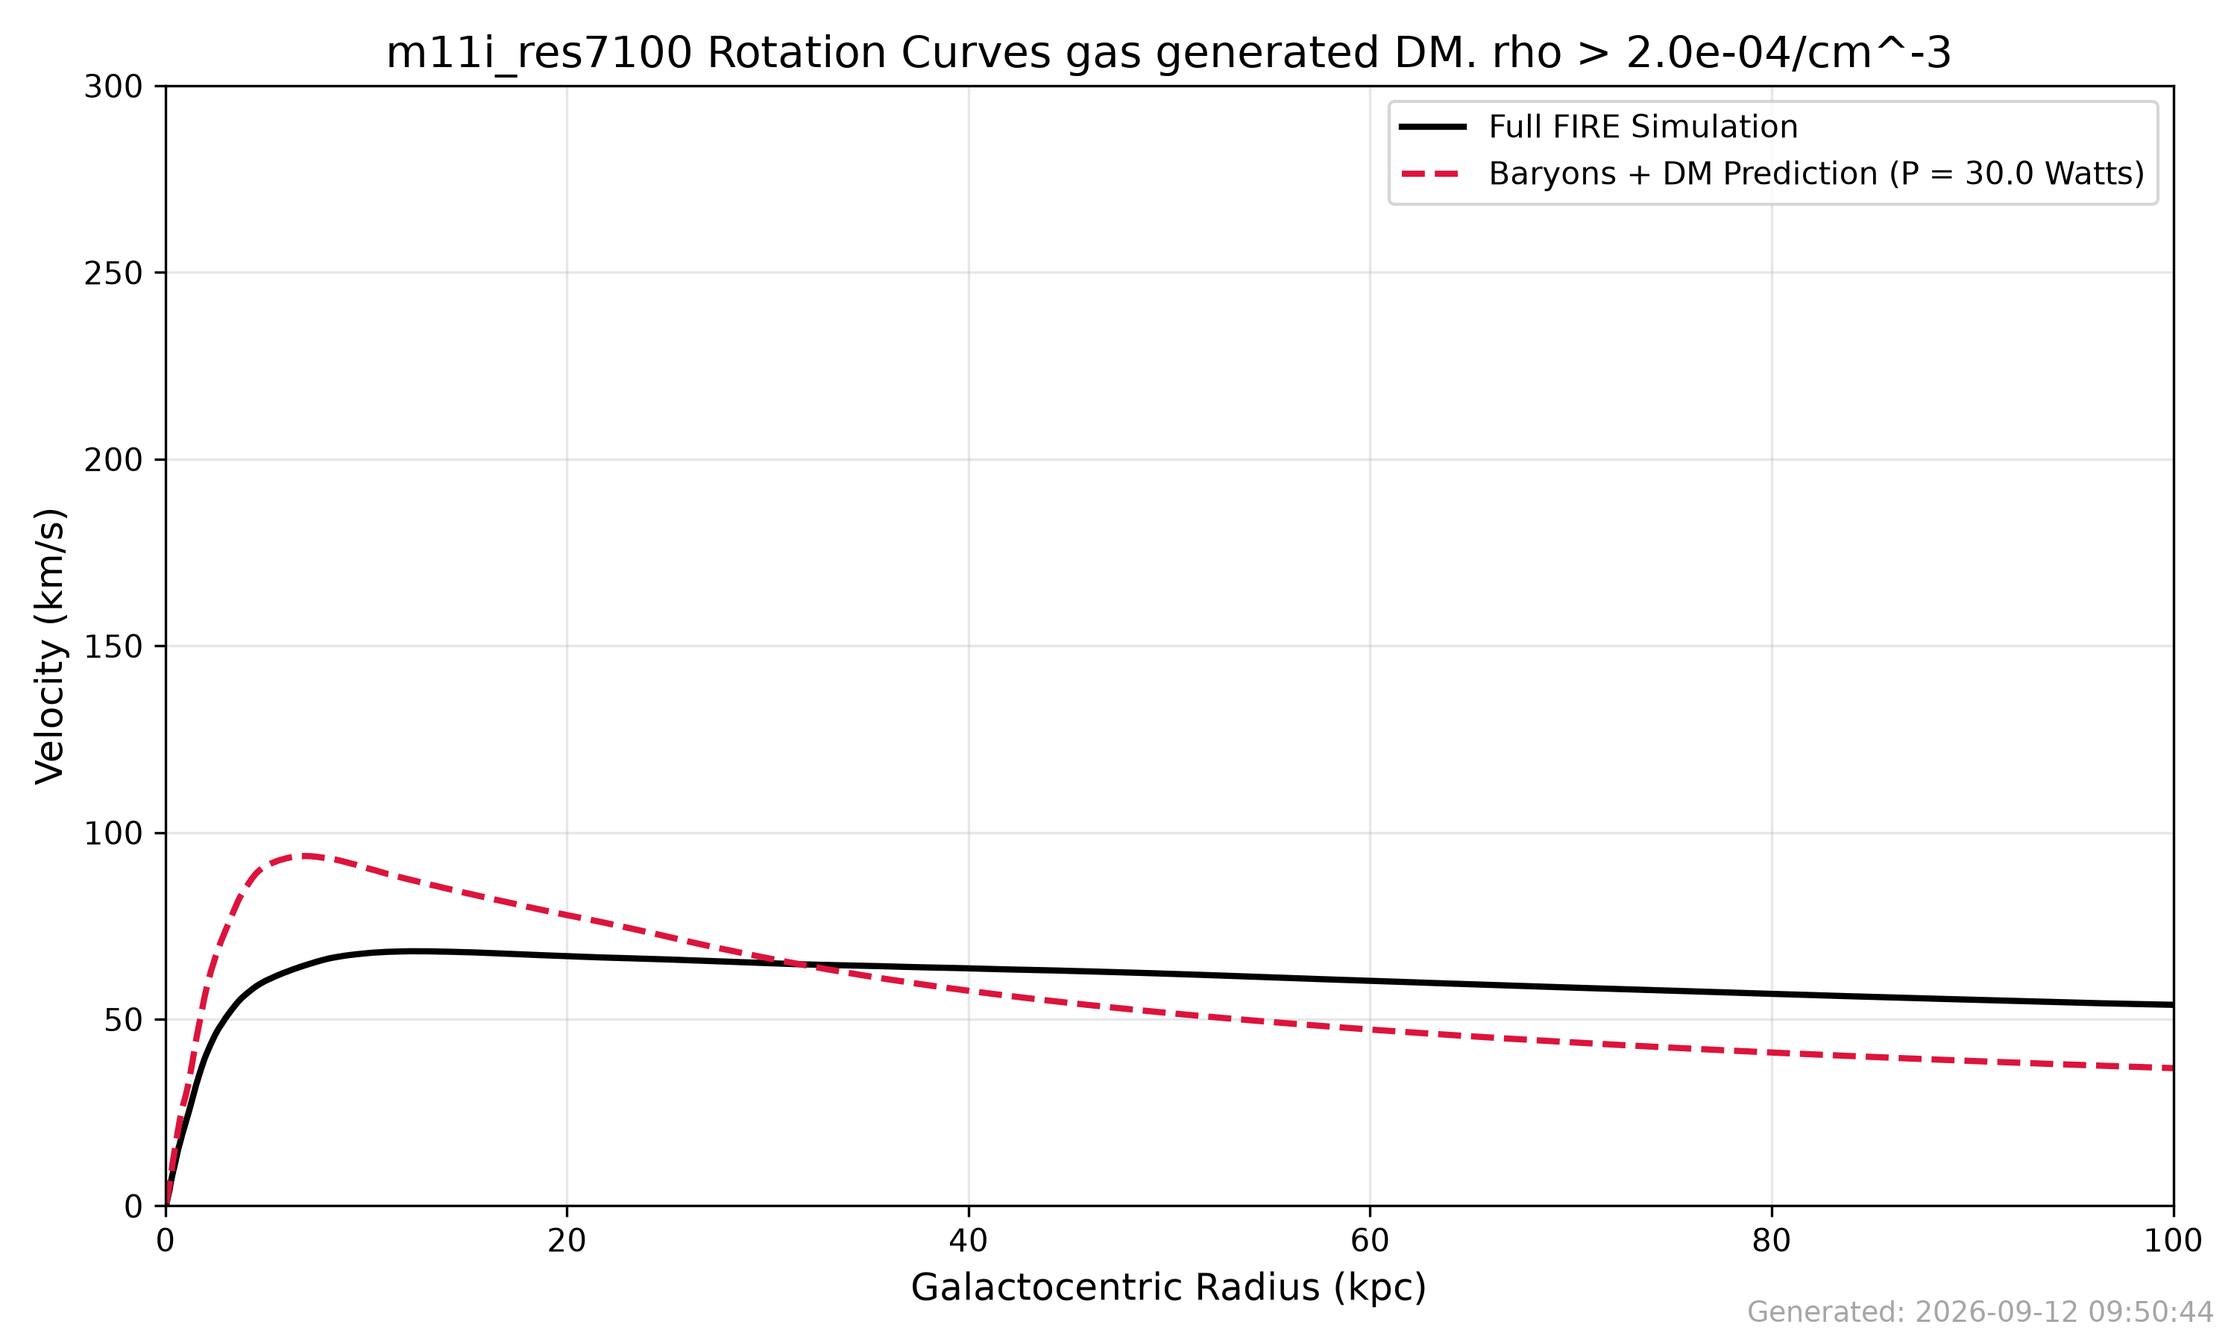
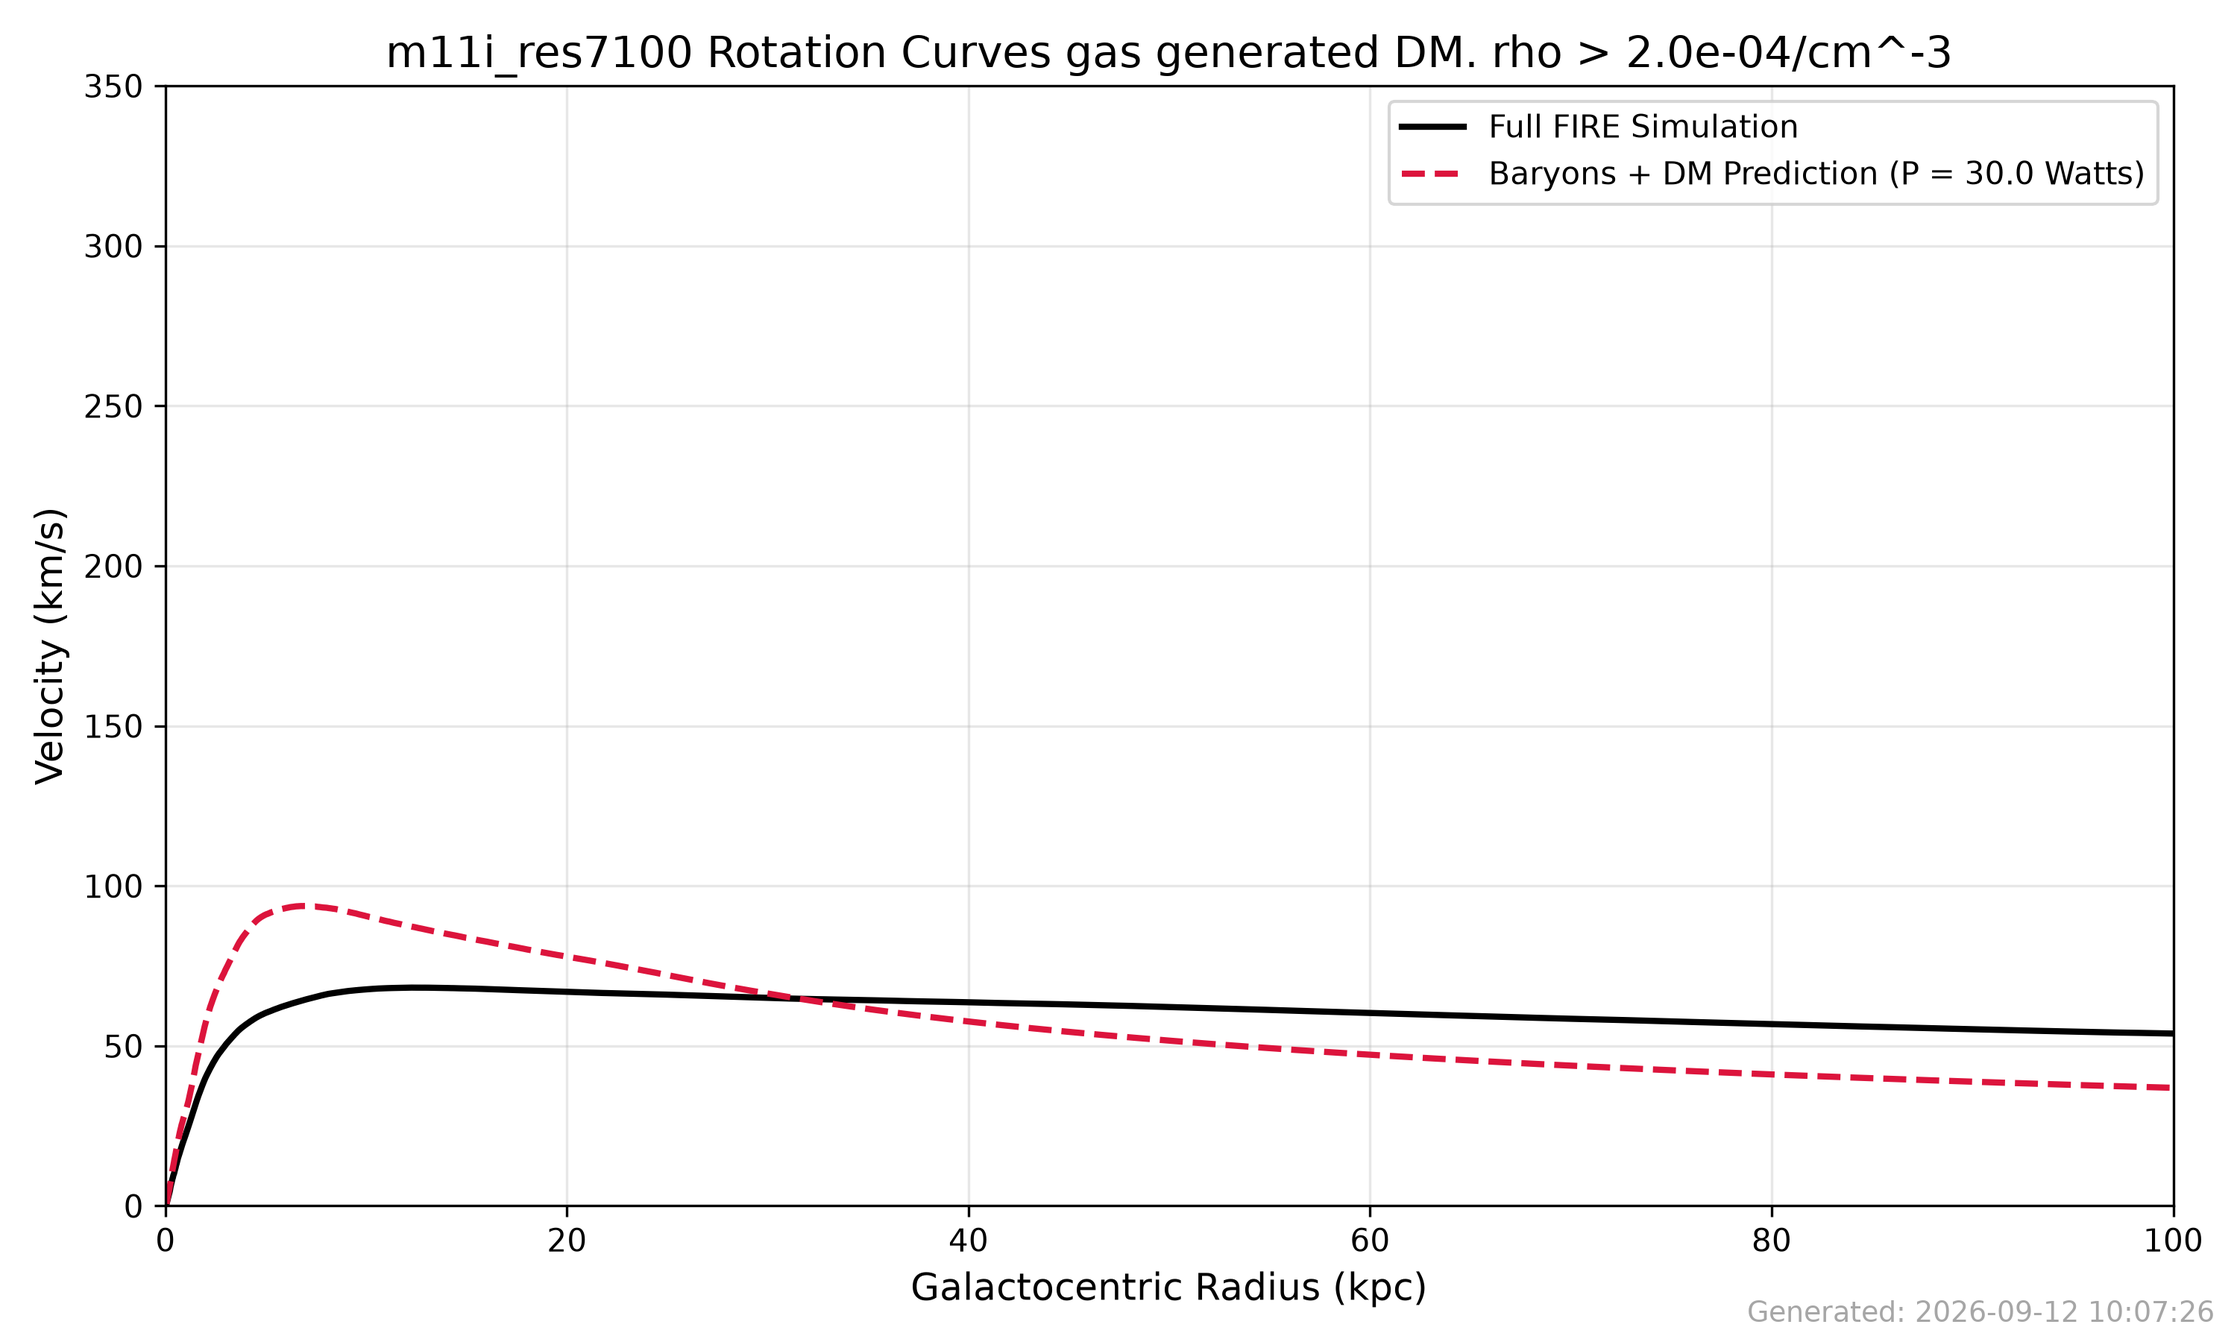
turned entire thing into one script that runs all the galaxies, makes image files

diff --git a/fire2/darkmatter.py b/fire2/darkmatter.py
@@ -5,16 +5,10 @@ import gizmo_analysis as gizmo
 from datetime import datetime
 import os
 
-
 # ==========================================
 # 1. CONFIGURATION & CONSTANTS
 # ==========================================
-SIM_FOLDER = "m11i_res7100" #m12i_res7100" # or m10q_res30 m11i_res7100 , m11h_res7100, m11e_res7100, m12m_res7100, m09_res30, m12r_res7100, m12c_res7100, m11b_res2100, m11q_res880, m12w_res7100
-  
- 
 SNAPSHOT_NUM = 600
-DENSITY_THRESHOLD = 0.0002  # cm^-3 (filtering for dense gas)
-PLOT_X_LIMIT = 100.0      # kpc
 USE_STARS = False         # Toggle stellar contribution to predicted DM
 
 G = 4.3009e-6             # Gravitational constant: kpc * (km/s)^2 / M_sun
@@ -22,8 +16,6 @@ c = 299792458.0           # Speed of light: m/s
 MSUN_TO_KG = 1.989e30     # Solar masses to kilograms
 MSUN_KPC3_TO_KG_M3 = 6.77e-29 # Mass density conversion
 alpha_std = 2.0
-
-print(f"{SIM_FOLDER} Rotation Curves gas generated DM. rho > {DENSITY_THRESHOLD:.1e}/cm^-3")
 
 def get_component_velocity(radii, masses):
     """Sorts particles by radius and calculates circular velocity."""
@@ -35,171 +27,192 @@ def get_component_velocity(radii, masses):
     v_circ = np.sqrt((G * enclosed_mass) / (r_sorted + 1e-6)) # Avoid div by zero
     return r_sorted, v_circ
 
-# ==========================================
-# 2. LOAD DATA & EXTRACT PROPERTIES
-# ==========================================
-print("Loading snapshot data...")
-part = gizmo.io.Read.read_snapshots(
-    ['star', 'gas', 'dark'], 
-    'index', 
-    SNAPSHOT_NUM, 
-    assign_hosts=True, 
-    simulation_directory=f"./fire2/galaxies/{SIM_FOLDER}"
-) 
- 
-r_stars = part['star'].prop('host.distance.spherical')[:, 0]
-r_gas_all = part['gas'].prop('host.distance.spherical')[:, 0]
-r_dm_all = part['dark'].prop('host.distance.spherical')[:, 0]
-pos_stars_all = part['star'].prop('host.distance') 
-mass_stars = part['star']['mass']
-mass_gas_all = part['gas']['mass']
-mass_dm_all = part['dark']['mass']
 
-# ==========================================
-# 3. FILTER GAS & TRUE DARK MATTER
-# ==========================================
-print("Filtering gas and isolating 100 kpc volume...")
-gas_density_cm3 = part['gas'].prop('number.density') 
-
-# Gas filter mask
-low_density_mask = (gas_density_cm3 > DENSITY_THRESHOLD)
-r_gas_f = r_gas_all[low_density_mask]
-mass_gas_f = mass_gas_all[low_density_mask]
-n_cm3 = gas_density_cm3[low_density_mask]
-gas_rho_msun_kpc3 = part['gas'].prop('density')[low_density_mask]
-
-# Star filter mask
-r_stars_f = r_stars
-mass_stars_f = mass_stars
-pos_stars_f = pos_stars_all
-
-# True DM filter mask
-r_dm_true = r_dm_all
-mass_dm_true = mass_dm_all
-target_dm_mass_kg = np.sum(mass_dm_true, dtype=np.float64) * MSUN_TO_KG
-
-# ==========================================
-# 4. RUN YOUR DARK MATTER MODEL (GAS + STARS)
-# ==========================================
-print("Running DM model for Gas...")
-n_m3_gas = n_cm3.astype(np.float64) * 1e6
-gas_mass_kg = mass_gas_f.astype(np.float64) * MSUN_TO_KG
-gas_rho_kg_m3 = gas_rho_msun_kpc3.astype(np.float64) * MSUN_KPC3_TO_KG_M3
-
-V_i_gas = gas_mass_kg / gas_rho_kg_m3
-d_avg_gas = np.cbrt(1.0 / n_m3_gas)
-sum_factor_star = 0.0
-
-if USE_STARS:
-    print("Calculating local density for Stars using KD-Tree...")
-    tree = cKDTree(pos_stars_f)
-    distances, _ = tree.query(pos_stars_f, k=17, workers=-1) 
-    r_16 = distances[:, 16].astype(np.float64) 
-
-    V_sphere_kpc3 = (4.0 / 3.0) * np.pi * (r_16**3)
-    star_rho_kg_m3 = ((16.0 * mass_stars_f.mean() * MSUN_TO_KG) / V_sphere_kpc3) * MSUN_KPC3_TO_KG_M3
-    V_i_star = (mass_stars_f.astype(np.float64) * MSUN_TO_KG) / star_rho_kg_m3
-    mass_baryon_kg = 1.67e-27 
-    n_m3_star = star_rho_kg_m3 / mass_baryon_kg
-    d_avg_star = np.cbrt(1.0 / n_m3_star)
-    sum_factor_star = np.sum(V_i_star / (c**3 * d_avg_star**alpha_std)) if USE_STARS else 0.0
-
-
-print("Calculating global Power P...")
-
-sum_factor_gas = np.sum(V_i_gas / (c**3 * d_avg_gas**alpha_std))
-sum_factor_total = sum_factor_gas + sum_factor_star
-
-P = target_dm_mass_kg / sum_factor_total
-print(f"Calculated Shared Power P: {P:.2e} Watts")
-P = 30.0
-print(f"Using forced Shared Power P: {P:.2e} Watts")
-
-dm_mass_msun_pred_gas = (P * (V_i_gas / (c**3 * d_avg_gas**alpha_std))) / MSUN_TO_KG
-if USE_STARS:
-    dm_mass_msun_pred_star = (P * (V_i_star / (c**3 * d_avg_star**alpha_std))) / MSUN_TO_KG
-
-# ==========================================
-# 5. CALCULATE ROTATION CURVES
-# ==========================================
-print("Calculating velocity curves...")
-_, v_stars = get_component_velocity(r_stars, mass_stars)
-_, v_gas = get_component_velocity(r_gas_all, mass_gas_all)
-r_dm_t, v_dm_true = get_component_velocity(r_dm_true, mass_dm_true)
-r_dm_p, v_dm_pred = get_component_velocity(r_gas_f, dm_mass_msun_pred_gas)
-
-all_r_true = np.concatenate([r_stars, r_gas_all, r_dm_true])
-all_m_true = np.concatenate([mass_stars, mass_gas_all, mass_dm_true])
-r_tot_true, v_tot_true = get_component_velocity(all_r_true, all_m_true)
- 
-if USE_STARS:
-    all_r_pred = np.concatenate([r_stars_f, r_gas_all, r_stars_f, r_gas_f]) 
-    all_m_pred = np.concatenate([mass_stars_f, mass_gas_all, dm_mass_msun_pred_star, dm_mass_msun_pred_gas])
-else:
-    all_r_pred = np.concatenate([r_stars_f, r_gas_all, r_gas_f]) 
-    all_m_pred = np.concatenate([mass_stars_f, mass_gas_all, dm_mass_msun_pred_gas])
+def process_sim(sim_folder, plot_x_limit=100.0, plot_y_limit=350, power=30.0, density_threshold=0.0002):
+    print(f"{sim_folder} Rotation Curves gas generated DM. rho > {density_threshold:.1e}/cm^-3")
     
-r_tot_pred, v_tot_pred = get_component_velocity(all_r_pred, all_m_pred)
+    # ==========================================
+    # 2. LOAD DATA & EXTRACT PROPERTIES
+    # ==========================================
+    print("Loading snapshot data...")
+    part = gizmo.io.Read.read_snapshots(
+        ['star', 'gas', 'dark'], 
+        'index', 
+        SNAPSHOT_NUM, 
+        assign_hosts=True, 
+        simulation_directory=f"./fire2/galaxies/{sim_folder}"
+    ) 
+     
+    r_stars = part['star'].prop('host.distance.spherical')[:, 0]
+    r_gas_all = part['gas'].prop('host.distance.spherical')[:, 0]
+    r_dm_all = part['dark'].prop('host.distance.spherical')[:, 0]
+    pos_stars_all = part['star'].prop('host.distance') 
+    mass_stars = part['star']['mass']
+    mass_gas_all = part['gas']['mass']
+    mass_dm_all = part['dark']['mass']
+    
+    # ==========================================
+    # 3. FILTER GAS & TRUE DARK MATTER
+    # ==========================================
+    print("Filtering gas and isolating 100 kpc volume...")
+    gas_density_cm3 = part['gas'].prop('number.density') 
+    
+    # Gas filter mask
+    low_density_mask = (gas_density_cm3 > density_threshold)
+    r_gas_f = r_gas_all[low_density_mask]
+    mass_gas_f = mass_gas_all[low_density_mask]
+    n_cm3 = gas_density_cm3[low_density_mask]
+    gas_rho_msun_kpc3 = part['gas'].prop('density')[low_density_mask]
+    
+    # Star filter mask
+    r_stars_f = r_stars
+    mass_stars_f = mass_stars
+    pos_stars_f = pos_stars_all
+    
+    # True DM filter mask
+    r_dm_true = r_dm_all
+    mass_dm_true = mass_dm_all
+    target_dm_mass_kg = np.sum(mass_dm_true, dtype=np.float64) * MSUN_TO_KG
+    
+    # ==========================================
+    # 4. RUN YOUR DARK MATTER MODEL (GAS + STARS)
+    # ==========================================
+    print("Running DM model for Gas...")
+    n_m3_gas = n_cm3.astype(np.float64) * 1e6
+    gas_mass_kg = mass_gas_f.astype(np.float64) * MSUN_TO_KG
+    gas_rho_kg_m3 = gas_rho_msun_kpc3.astype(np.float64) * MSUN_KPC3_TO_KG_M3
+    
+    V_i_gas = gas_mass_kg / gas_rho_kg_m3
+    d_avg_gas = np.cbrt(1.0 / n_m3_gas)
+    sum_factor_star = 0.0
+    
+    if USE_STARS:
+        print("Calculating local density for Stars using KD-Tree...")
+        tree = cKDTree(pos_stars_f)
+        distances, _ = tree.query(pos_stars_f, k=17, workers=-1) 
+        r_16 = distances[:, 16].astype(np.float64) 
+    
+        V_sphere_kpc3 = (4.0 / 3.0) * np.pi * (r_16**3)
+        star_rho_kg_m3 = ((16.0 * mass_stars_f.mean() * MSUN_TO_KG) / V_sphere_kpc3) * MSUN_KPC3_TO_KG_M3
+        V_i_star = (mass_stars_f.astype(np.float64) * MSUN_TO_KG) / star_rho_kg_m3
+        mass_baryon_kg = 1.67e-27 
+        n_m3_star = star_rho_kg_m3 / mass_baryon_kg
+        d_avg_star = np.cbrt(1.0 / n_m3_star)
+        sum_factor_star = np.sum(V_i_star / (c**3 * d_avg_star**alpha_std)) if USE_STARS else 0.0
+    
+    
+    print("Calculating global Power P...")
+    
+    sum_factor_gas = np.sum(V_i_gas / (c**3 * d_avg_gas**alpha_std))
+    sum_factor_total = sum_factor_gas + sum_factor_star
+    
+    calc_P = target_dm_mass_kg / sum_factor_total
+    print(f"Calculated Shared Power P: {calc_P:.2e} Watts")
+    print(f"Using forced Shared Power P: {power:.2e} Watts")
+    
+    dm_mass_msun_pred_gas = (power * (V_i_gas / (c**3 * d_avg_gas**alpha_std))) / MSUN_TO_KG
+    if USE_STARS:
+        dm_mass_msun_pred_star = (power * (V_i_star / (c**3 * d_avg_star**alpha_std))) / MSUN_TO_KG
+    
+    # ==========================================
+    # 5. CALCULATE ROTATION CURVES
+    # ==========================================
+    print("Calculating velocity curves...")
+    _, v_stars = get_component_velocity(r_stars, mass_stars)
+    _, v_gas = get_component_velocity(r_gas_all, mass_gas_all)
+    r_dm_t, v_dm_true = get_component_velocity(r_dm_true, mass_dm_true)
+    r_dm_p, v_dm_pred = get_component_velocity(r_gas_f, dm_mass_msun_pred_gas)
+    
+    all_r_true = np.concatenate([r_stars, r_gas_all, r_dm_true])
+    all_m_true = np.concatenate([mass_stars, mass_gas_all, mass_dm_true])
+    r_tot_true, v_tot_true = get_component_velocity(all_r_true, all_m_true)
+     
+    if USE_STARS:
+        all_r_pred = np.concatenate([r_stars_f, r_gas_all, r_stars_f, r_gas_f]) 
+        all_m_pred = np.concatenate([mass_stars_f, mass_gas_all, dm_mass_msun_pred_star, dm_mass_msun_pred_gas])
+    else:
+        all_r_pred = np.concatenate([r_stars_f, r_gas_all, r_gas_f]) 
+        all_m_pred = np.concatenate([mass_stars_f, mass_gas_all, dm_mass_msun_pred_gas])
+        
+    r_tot_pred, v_tot_pred = get_component_velocity(all_r_pred, all_m_pred)
+    
+    # ==========================================
+    # 6. PLOTTING AND SAVING THE RESULTS
+    # ==========================================
+    print("Generating and saving graphs...")
+    S = 100 
+    
+    settings_string = f"gas-{density_threshold:.1e}_P-{power:.1e}W"
+    component_filename = f"{sim_folder}-{settings_string}-components.png"
+    component_path = f"./fire2/components/{settings_string}/{component_filename}"
+    os.makedirs(os.path.dirname(component_path), exist_ok=True)
+    
+    curve_filename = f"{sim_folder}-{settings_string}-curve.png"
+    curve_path = f"./fire2/curves/{settings_string}/{curve_filename}"
+    os.makedirs(os.path.dirname(curve_path), exist_ok=True)
+    
+    # ------------------------------------------
+    # Graph 1: Total Rotation Curve
+    # ------------------------------------------
+    plt.figure(figsize=(10, 6))
+    plt.plot(r_tot_true[::S], v_tot_true[::S], label='Full FIRE Simulation', color='black', lw=2)
+    plt.plot(r_tot_pred[::S], v_tot_pred[::S], label=f"Baryons + DM Prediction (P = {power:.1f} Watts)", color='crimson', ls='--', lw=2)
+     
+    plt.title(f"{sim_folder} Rotation Curves gas generated DM. rho > {density_threshold:.1e}/cm^-3", fontsize=14)
+    plt.xlabel('Galactocentric Radius (kpc)', fontsize=12)
+    plt.ylabel('Velocity (km/s)', fontsize=12) 
+    plt.xlim(0, plot_x_limit)
+    plt.ylim(0, plot_y_limit)
+    plt.grid(True, alpha=0.3)
+    plt.legend(loc='upper right')
+    
+    plt.tight_layout()
+    current_time = datetime.now().strftime("%Y-%m-%d %H:%M:%S")
+    plt.figtext(0.99, 0.01, f"Generated: {current_time}", ha="right", va="bottom", fontsize=9, color="gray", alpha=0.7)
+    plt.savefig(curve_path, dpi=300)
+    plt.close() # Closes the figure to free up your memory!
+    print(f"Saved {curve_path}")
+    
+    # ------------------------------------------
+    # Graph 2: Component Decomposition
+    # ------------------------------------------
+    plt.figure(figsize=(10, 6))
+    plt.plot(r_dm_t[::S], v_dm_true[::S], label='FIRE DM Halo', color='black', lw=2)
+    plt.plot(r_dm_p[::S], v_dm_pred[::S], label=f"Predicted DM Halo (P = {power:.1f} Watts)", color='crimson', ls='--', lw=2)
+    plt.plot(np.sort(r_stars)[::S], v_stars[::S], label='Stars', color='goldenrod', ls='-.')
+    plt.plot(np.sort(r_gas_all)[::S], v_gas[::S], label='Gas', color='teal', ls='-.')
+    
+    plt.title(f"{sim_folder} Component Curves, rho > {density_threshold:.1e}/cm^-3", fontsize=14)
+    plt.xlabel('Galactocentric Radius (kpc)', fontsize=12)
+    plt.ylabel('Velocity Contribution (km/s)', fontsize=12)
+    plt.xlim(0, plot_x_limit)
+    plt.ylim(0, plot_y_limit)
+    plt.grid(True, alpha=0.3)
+    plt.legend(loc='upper right')
+    
+    plt.tight_layout()
+    current_time = datetime.now().strftime("%Y-%m-%d %H:%M:%S")
+    plt.figtext(0.99, 0.01, f"Generated: {current_time}", ha="right", va="bottom", fontsize=9, color="gray", alpha=0.7)
+    plt.savefig(component_path, dpi=300)
+    plt.close()
+    print(f"Saved {component_path}")
 
-# ==========================================
-# 6. PLOTTING AND SAVING THE RESULTS
-# ==========================================
-print("Generating and saving graphs...")
-S = 100 
 
-settings_string = f"gas-{DENSITY_THRESHOLD:.1e}_P-{P:.1e}W"
-component_filename = f"{SIM_FOLDER}-{settings_string}-components.png"
-component_path = f"./fire2/components/{settings_string}/{component_filename}"
-os.makedirs(os.path.dirname(component_path), exist_ok=True)
+if __name__ == "__main__":
+    #sim_folders = [ "m11i_res7100", "m12i_res7100"]
+    
+    sim_folders = [
+        "m11i_res7100", "m12i_res7100", "m10q_res30", "m11h_res7100", 
+        "m11e_res7100", "m12m_res7100", "m09_res30", "m12r_res7100", 
+        "m12c_res7100", "m11b_res2100", "m11q_res880", "m12w_res7100"
+    ]
 
-curve_filename = f"{SIM_FOLDER}-{settings_string}-curve.png"
-curve_path = f"./fire2/curves/{settings_string}/{curve_filename}"
-os.makedirs(os.path.dirname(curve_path), exist_ok=True)
 
-# ------------------------------------------
-# Graph 1: Total Rotation Curve
-# ------------------------------------------
-plt.figure(figsize=(10, 6))
-plt.plot(r_tot_true[::S], v_tot_true[::S], label='Full FIRE Simulation', color='black', lw=2)
-plt.plot(r_tot_pred[::S], v_tot_pred[::S], label=f"Baryons + DM Prediction (P = {P:.1f} Watts)", color='crimson', ls='--', lw=2)
- 
-plt.title(f"{SIM_FOLDER} Rotation Curves gas generated DM. rho > {DENSITY_THRESHOLD:.1e}/cm^-3", fontsize=14)
-plt.xlabel('Galactocentric Radius (kpc)', fontsize=12)
-plt.ylabel('Velocity (km/s)', fontsize=12) 
-plt.xlim(0, PLOT_X_LIMIT)
-plt.ylim(0, 300)
-plt.grid(True, alpha=0.3)
-plt.legend(loc='upper right')
-
-plt.tight_layout()
-current_time = datetime.now().strftime("%Y-%m-%d %H:%M:%S")
-plt.figtext(0.99, 0.01, f"Generated: {current_time}", ha="right", va="bottom", fontsize=9, color="gray", alpha=0.7)
-plt.savefig(curve_path, dpi=300)
-plt.close() # Closes the figure to free up your memory!
-print(f"Saved {curve_path}")
-
-# ------------------------------------------
-# Graph 2: Component Decomposition
-# ------------------------------------------
-plt.figure(figsize=(10, 6))
-plt.plot(r_dm_t[::S], v_dm_true[::S], label='FIRE DM Halo', color='black', lw=2)
-plt.plot(r_dm_p[::S], v_dm_pred[::S], label=f"Predicted DM Halo (P = {P:.1f} Watts)", color='crimson', ls='--', lw=2)
-plt.plot(np.sort(r_stars)[::S], v_stars[::S], label='Stars', color='goldenrod', ls='-.')
-plt.plot(np.sort(r_gas_all)[::S], v_gas[::S], label='Gas', color='teal', ls='-.')
-
-plt.title(f"{SIM_FOLDER} Component Curves, rho > {DENSITY_THRESHOLD:.1e}/cm^-3", fontsize=14)
-plt.xlabel('Galactocentric Radius (kpc)', fontsize=12)
-plt.ylabel('Velocity Contribution (km/s)', fontsize=12)
-plt.xlim(0, PLOT_X_LIMIT)
-plt.ylim(0, 350)
-plt.grid(True, alpha=0.3)
-plt.legend(loc='upper right')
-
-plt.tight_layout()
-current_time = datetime.now().strftime("%Y-%m-%d %H:%M:%S")
-plt.figtext(0.99, 0.01, f"Generated: {current_time}", ha="right", va="bottom", fontsize=9, color="gray", alpha=0.7)
-plt.savefig(component_path, dpi=300)
-plt.close()
-print(f"Saved {component_path}")
- 
- 
+    for folder in sim_folders:
+        process_sim(
+            sim_folder=folder, 
+            plot_x_limit=100.0, 
+            plot_y_limit=350, 
+            power=30.0, 
+            density_threshold=0.0002
+        )
